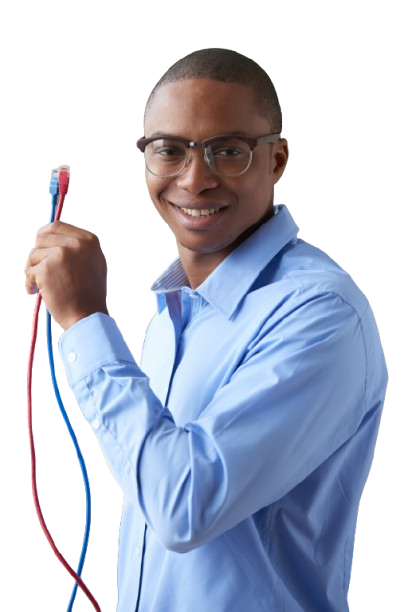
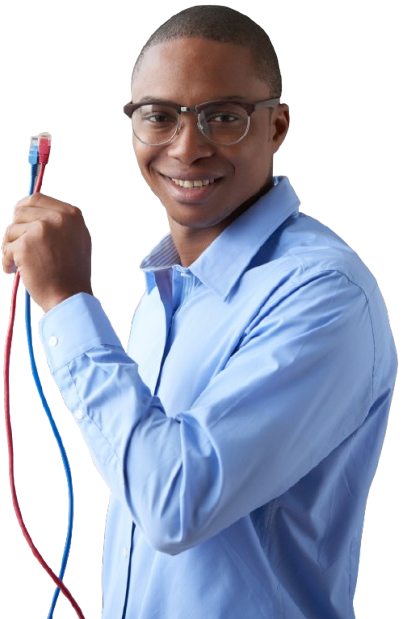
ooo

diff --git a/components/Servicos.tsx b/components/Servicos.tsx
@@ -193,17 +193,15 @@ export default function Servicos() {
                         </div>
                         <div className="w-full  lg:w-2/3 xl:w-[42%] flex flex-col justify-end overflow-hidden rounded-3xl ">
                               
-                              <div className="h-[350px] md:h-[500px] flex items-center justify-center md:px-5">
-                                          <img
+                            <div className="h-[350px] md:h-[500px] flex items-center justify-center md:px-5">
+                                    <img
                                             
-                                            src="/cameraman.jpg"
-                                            alt="CCTV preview"
-                                            className="h-[300px] w-[300px] md:h-[500px] md:w-[500px] lg:h-[520px] lg:w-[520px] xl:h-[600px] xl:w-[600px] object-cover transition-transform duration-300 scale-120 sm:scale-125 xs:scale-125 lg:scale-125 hover:scale-125 transicao rounded-3xl"
-                                            />
-                              </div>
-                            
-
-                               
+                                        src="/cameraman.jpg"
+                                        alt="CCTV preview"
+                                        className="h-[300px] w-[300px] md:h-[500px] md:w-[500px] lg:h-[520px] lg:w-[520px] xl:h-[600px] xl:w-[600px] object-cover transition-transform duration-300 scale-120 sm:scale-125 xm:scale-125 lg:scale-125 hover:scale-125 transicao rounded-3xl"
+                                    />
+                             </div>
+                             
                         </div>
             </div>
             </ScrollRevealWrapper>
@@ -236,22 +234,13 @@ export default function Servicos() {
             <img
                 src="/network.jpg"
                 alt="Redes preview"
-                className="h-[300px] w-[300px] md:h-[500px] md:w-[500px] lg:h-[520px] lg:w-[520px] xl:h-[600px] xl:w-[600px] object-cover transition-transform duration-300 sm:scale-125 xs:scale-125 scale-120 lg:scale-125 hover:scale-125 transicao rounded-3xl"
+                className="h-[300px] w-[300px] md:h-[500px] md:w-[500px] lg:h-[520px] lg:w-[520px] xl:h-[600px] xl:w-[600px] object-cover transition-transform duration-300 sm:scale-125 xm:scale-125 scale-120 lg:scale-125 hover:scale-125 transicao rounded-3xl"
             />
         </div>
     </div>
 </div>
 </ScrollRevealWrapper>
+        </div>
       </div>
-       
-     
-
-
-
-
-
-
-
-		</div>
 	);
 }

diff --git a/components/Hero.tsx b/components/Hero.tsx
@@ -293,7 +293,7 @@ const phares3 = ["Proteção digital e gestão"];
 								className="flex md:hidden lg:hidden xl:hidden  w-full items-center justify-center">
 								<Image
 									
-									src="/man5.png"
+									src="/man8.png"
 									alt="cog-hero-img"
 									width={200}
 									height={200}
@@ -378,7 +378,7 @@ const phares3 = ["Proteção digital e gestão"];
 									alt="cog-hero-img"
 									width={800}
 									height={400}
-									className="xm:mr-8 sm:mr-12  hide w-[100%] xm:w-full sm:w-full h-auto object-cover"
+									className="xm:mr-8 sm:mr-12 hide w-[100%] xm:w-full sm:w-full h-auto object-cover"
 								/>
 							</motion.div>
 							
